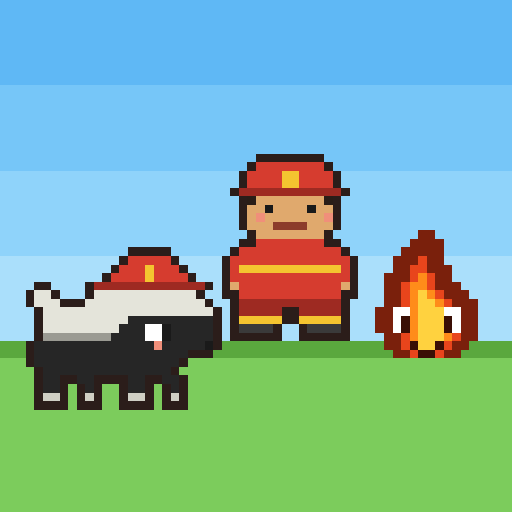
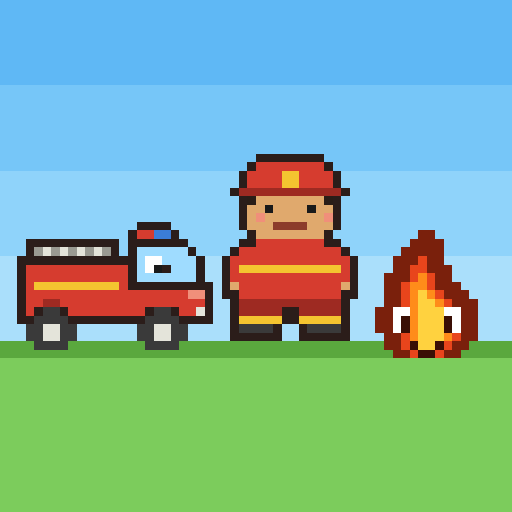
Ara jadi asisten pengingat sisa warga yang perlu dibantu
- Ara mengingatkan "Tinggal N warga lagi" beserta nama warganya saat game
  dibuka, setelah satu masalah selesai, dan saat Ara diketuk (atau tombol
  A saat menghadap Ara).
- Petunjuk di atas layar menampilkan "Tinggal N".
- Ikon aplikasi memakai Ara versi mobil pemadam; versi naik ke 5.

Claude-Session: https://claude.ai/code/session_01NR19kGneF4uPLLZfoEFEq6

Changed region(s): [[0.0312, 0.4062, 0.4375, 0.8125]]

diff --git a/js/game.js b/js/game.js
@@ -5,7 +5,7 @@
   const R = Math.round;
 
   // ---------- Simpan progres ----------
-  G.VERSION = 4;
+  G.VERSION = 5;
   const KEY = 'aksa-pemadam-v2';
   const fresh = () => ({ solved: {}, stars: {}, acc: {}, equip: {}, intro: false, tut: false, music: true, sfx: true, pos: null });
   function load() {
@@ -168,14 +168,14 @@
       G.wipe(() => {
         enterWorld();
         if (!G.save.intro) {
-          dialog(G.INTRO, () => {
+          dialog(G.INTRO.concat(araReminder()), () => {
             G.save.intro = true;
             G.persist();
             backToWorld();
             ui.classList.add('teach');
             setTimeout(() => ui.classList.remove('teach'), 6000);
           });
-        }
+        } else dialog([{ who: 'ara', text: 'Tin tin! Ayo lanjut menolong, Aksa!' }].concat(araReminder()), backToWorld);
       });
     });
   }
@@ -229,13 +229,26 @@
     }
   });
 
+  // Ara sebagai asisten: ingatkan berapa warga lagi yang perlu dibantu, dan siapa saja.
+  const WHO = { ani: 'Bu Ani', api: 'Api Jahil di tumpukan daun', budi: 'Pak Budi', joko: 'Pak Joko', siti: 'Bu Siti', udin: 'Kakek Udin' };
+  function araReminder() {
+    const sv = G.save.solved;
+    if (sv.raja) return [{ who: 'ara', text: 'Desa Ceria sudah aman semua. Kamu pahlawan, Aksa!' }];
+    const left = G.PROBLEMS.filter((p) => !sv[p.id]);
+    if (!left.length) return [{ who: 'ara', text: 'Semua warga sudah dibantu! Tinggal Raja Api Jahil di depan Balai Desa. Ayo!' }];
+    const names = left.map((p) => WHO[p.npc]);
+    const list = names.length === 1 ? names[0] : names.slice(0, -1).join(', ') + ', dan ' + names[names.length - 1];
+    const head = left.length === 1 ? 'Tinggal 1 warga lagi! Sedikit lagi, Aksa!' : `Tinggal ${left.length} warga lagi yang perlu kita bantu!`;
+    return [{ who: 'ara', text: head }, { who: 'ara', text: `Yang masih menunggu: ${list}. Cari tanda ❗ ya!` }];
+  }
+
   function updateQuest() {
     if (!hud) return;
     const q = $('.quest', hud);
     const sv = G.save.solved;
     if (sv.raja) q.innerHTML = '🏅 Desa Ceria aman!';
     else if (G.world.bossActive()) q.innerHTML = '⭐ Ke Balai Desa! <img src="' + G.icons.crown + '" alt="">';
-    else q.innerHTML = '<span>Tolong warga:</span>' + G.PROBLEMS.map((p) => `<span class="qi ${sv[p.id] ? 'ok' : ''}"><img src="${G.icons[p.icon]}" alt="">${sv[p.id] ? '<b>✓</b>' : ''}</span>`).join('');
+    else q.innerHTML = `<span class="qara"><img src="${G.icons.araTruck}" alt=""></span><span>Tinggal ${G.PROBLEMS.filter((p) => !sv[p.id]).length}:</span>` + G.PROBLEMS.map((p) => `<span class="qi ${sv[p.id] ? 'ok' : ''}"><img src="${G.icons[p.icon]}" alt="">${sv[p.id] ? '<b>✓</b>' : ''}</span>`).join('');
   }
 
   G.world.onInteract = function (id) {
@@ -243,6 +256,7 @@
     const P = (pid) => G.ALL.find((p) => p.id === pid);
     const sv = G.save.solved;
     if (id === 'papan') return dialog(G.SIGN, backToWorld);
+    if (id === 'ara') return dialog(araReminder(), backToWorld);
     if (id === 'kades') {
       const lines = sv.raja ? G.KADES.done : G.world.bossActive() ? G.KADES.boss : G.KADES.before;
       return dialog(lines, backToWorld);
@@ -318,6 +332,7 @@
     tap($('#lanjut', c), () => {
       closeModal();
       if (p.id !== 'raja' && G.world.bossActive()) return bossAppears();
+      if (p.id !== 'raja') return dialog([{ who: 'ara', text: 'Hebat, Aksa! Satu warga sudah tertolong!' }].concat(araReminder()), backToWorld);
       backToWorld();
       if (p.id === 'raja') G.fx.confetti(120);
     });

diff --git a/index.html b/index.html
@@ -17,7 +17,7 @@
   <link rel="preconnect" href="https://fonts.googleapis.com">
   <link rel="preconnect" href="https://fonts.gstatic.com" crossorigin>
   <link href="https://fonts.googleapis.com/css2?family=Fredoka:wght@500;700&display=swap" rel="stylesheet">
-  <link rel="stylesheet" href="css/style.css?v=4">
+  <link rel="stylesheet" href="css/style.css?v=5">
 </head>
 <body>
   <canvas id="scene"></canvas>
@@ -29,13 +29,13 @@
     <div class="rot-icon">📱</div>
     <p>Putar iPad ke samping ya!</p>
   </div>
-  <script src="js/sprites.js?v=4"></script>
-  <script src="js/audio.js?v=4"></script>
-  <script src="js/questions.js?v=4"></script>
-  <script src="js/world.js?v=4"></script>
-  <script src="js/missions.js?v=4"></script>
-  <script src="js/overworld.js?v=4"></script>
-  <script src="js/battle.js?v=4"></script>
-  <script src="js/game.js?v=4"></script>
+  <script src="js/sprites.js?v=5"></script>
+  <script src="js/audio.js?v=5"></script>
+  <script src="js/questions.js?v=5"></script>
+  <script src="js/world.js?v=5"></script>
+  <script src="js/missions.js?v=5"></script>
+  <script src="js/overworld.js?v=5"></script>
+  <script src="js/battle.js?v=5"></script>
+  <script src="js/game.js?v=5"></script>
 </body>
 </html>

diff --git a/js/overworld.js b/js/overworld.js
@@ -90,6 +90,7 @@
   // Apa yang ada di petak ini (untuk tombol A / ketuk)?
   function thingAt(x, y) {
     const at = (p) => p[0] === x && p[1] === y;
+    if (W.ara.tx === x && W.ara.ty === y && !W.ara.moving) return 'ara';
     for (const [id, n] of Object.entries(NPCS)) if (n.x === x && n.y === y) return id;
     if (at(CAT_TREE)) return 'ani';
     if (at(PILE)) return 'api';
@@ -363,7 +364,7 @@
     // ketuk pada bagian atas sprite NPC juga dihitung
     let id = thingAt(tx, ty);
     let target = [tx, ty];
-    if (!id && thingAt(tx, ty + 1) && ['ani', 'budi', 'joko', 'kades', 'raja', 'siti', 'udin'].includes(thingAt(tx, ty + 1))) {
+    if (!id && thingAt(tx, ty + 1) && ['ani', 'budi', 'joko', 'kades', 'raja', 'siti', 'udin', 'ara'].includes(thingAt(tx, ty + 1))) {
       id = thingAt(tx, ty + 1);
       target = [tx, ty + 1];
     }

diff --git a/css/style.css b/css/style.css
@@ -644,3 +644,4 @@ body.portrait #rotate { display: flex; }
 .bd em { font-style: normal; color: var(--yellow); -webkit-text-stroke: 0.2vh var(--ink); paint-order: stroke fill; font-size: 2.6vh; }
 
 .title .ver { position: absolute; right: 2vh; bottom: 1.5vh; font-size: 2.4vh; font-weight: 700; color: #fff; opacity: 0.85; text-shadow: 0 0.2vh 0 rgba(0, 0, 0, 0.4); }
+.quest .qara img { width: 6vh; }

diff --git a/js/sprites.js b/js/sprites.js
@@ -580,6 +580,7 @@
     I.star = iconURL(spr.star);
     I.aksa = iconURL(spr.aksa);
     I.ara = iconURL(spr.ara);
+    I.araTruck = iconURL(spr.araDir({}).right[0]);
     I.badges = spr.badges.map((b) => iconURL(b));
   };
 })();

diff --git a/README.md b/README.md
@@ -1,13 +1,13 @@
 # Aksa si Pemadam Cilik 🚒
 
 Game petualangan pixel art untuk belajar berhitung (usia ±6 tahun).
-Aksa, pemadam kebakaran cilik, dan Ara, honey badger pemberani, menolong warga Desa Ceria dari ulah Api Jahil dengan menjawab soal berhitung.
+Aksa, pemadam kebakaran cilik, dan Ara, mobil pemadam kebakaran mini sahabatnya, menolong warga Desa Ceria dari ulah Api Jahil dengan menjawab soal berhitung.
 
 ## Isi Wilayah 1: Desa Ceria
 
-Dunia top-down ala Pokemon. Aksa berjalan ke 4 arah (tombol panah di layar atau ketuk tanah tujuan), Ara mengikuti di belakang. Warga yang butuh bantuan ditandai ❗, lalu tekan tombol **A** (atau ketuk warganya) untuk bicara. Semua soal dikerjakan dalam **battle**.
+Dunia top-down ala Pokemon. Ketuk tanah untuk berjalan, Ara mengikuti di belakang. Warga yang butuh bantuan ditandai ❗; ketuk warganya (atau tombol **A**) untuk bicara. Semua soal dikerjakan dalam **battle**.
 
-Empat masalah muncul bersamaan dan boleh diselesaikan dengan urutan bebas:
+Enam masalah muncul bersamaan dan boleh diselesaikan dengan urutan bebas:
 
 | Masalah | Warga | Materi |
 |---|---|---|
@@ -15,12 +15,15 @@ Empat masalah muncul bersamaan dan boleh diselesaikan dengan urutan bebas:
 | Api di Tumpukan Daun | Api Jahil | Penjumlahan ≤ 20 |
 | Toko Roti Terbakar | Pak Budi | Pengurangan ≤ 20 |
 | Tangki Truk Kosong | Pak Joko | Tambah/kurang + **1 soal perkalian** (hasil ≤ 15) |
+| Anak Ayam Lepas | Bu Siti | 1 soal penjumlahan ≤ 10 |
+| Hidran Bocor | Kakek Udin | 1 soal pengurangan ≤ 20 |
 
-Setelah keempatnya selesai, **Raja Api Jahil** muncul di depan Balai Desa sebagai boss terakhir (campuran tambah & kurang).
+Setelah keenamnya selesai, **Raja Api Jahil** muncul di depan Balai Desa sebagai boss terakhir (campuran tambah & kurang).
 
-- Tidak ada "kalah". Menu battle berisi 3 jawaban + **🦡 Bantuan Ara** (titik/ikon yang bisa diketuk satu per satu untuk menghitung). Kalau salah, bantuan terbuka otomatis. Kalau salah dua kali, jawaban yang benar akan berkedip.
+- Tidak ada "kalah". Battle berisi 3 pilihan jawaban. Kalau salah, soal langsung diganti soal baru supaya anak benar-benar menghitung, bukan menebak.
+- Ara (mobil pemadam mini) jadi asisten: setiap kali satu masalah selesai, saat game dibuka, atau saat Ara diketuk, Ara mengingatkan tinggal berapa warga lagi dan siapa saja.
 - Masalah yang sudah selesai bisa dimainkan lagi lewat **Latihan lagi** untuk mengejar 3 bintang.
-- Hadiah: lencana + aksesori Ara (helm, syal, kacamata, sepatu bot, jubah) yang bisa dipakai/dilepas di **Koleksi**.
+- Hadiah: lencana + aksesori Ara (sirene ganda, stiker bintang, kacamata keren, velg emas, bendera pahlawan) yang bisa dipakai/dilepas di **Koleksi**.
 - Musik latar chiptune (lagu desa & lagu battle) dan efek suara, bisa dimatikan dari tombol 🎵 atau ⚙ Pengaturan. Tidak ada narasi suara.
 - Progres dan posisi Aksa tersimpan otomatis di perangkat.
 
